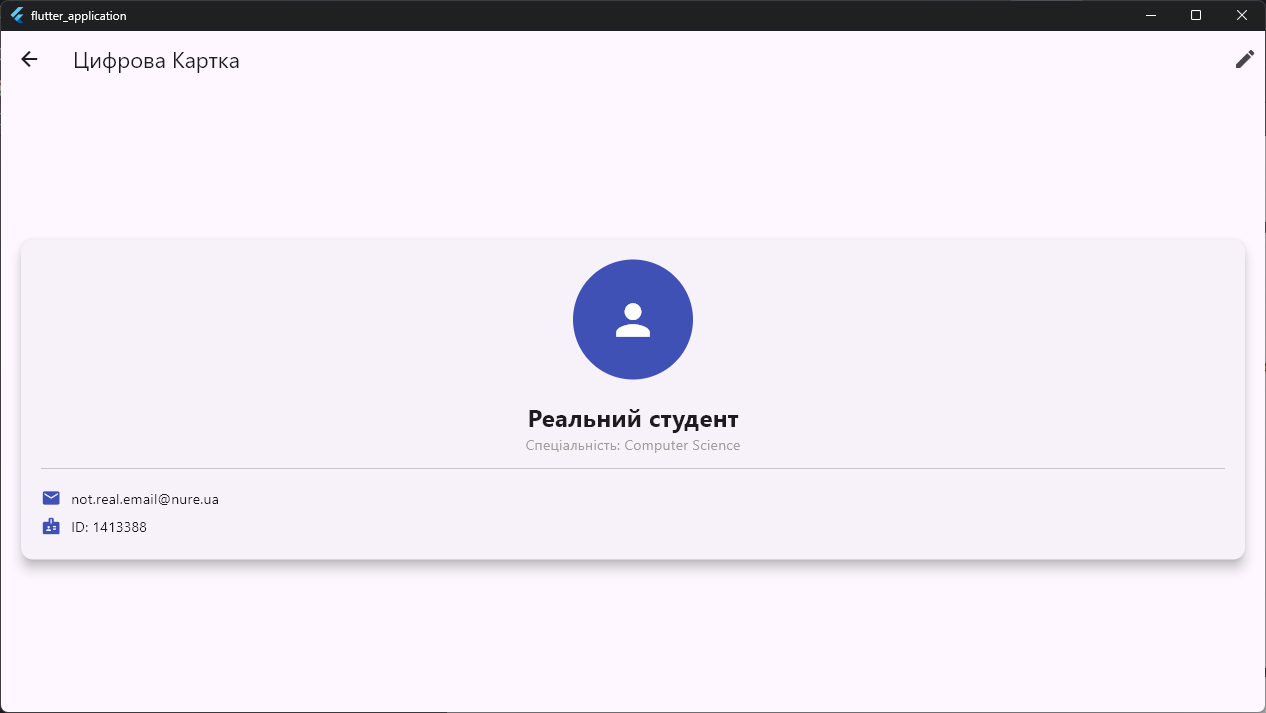
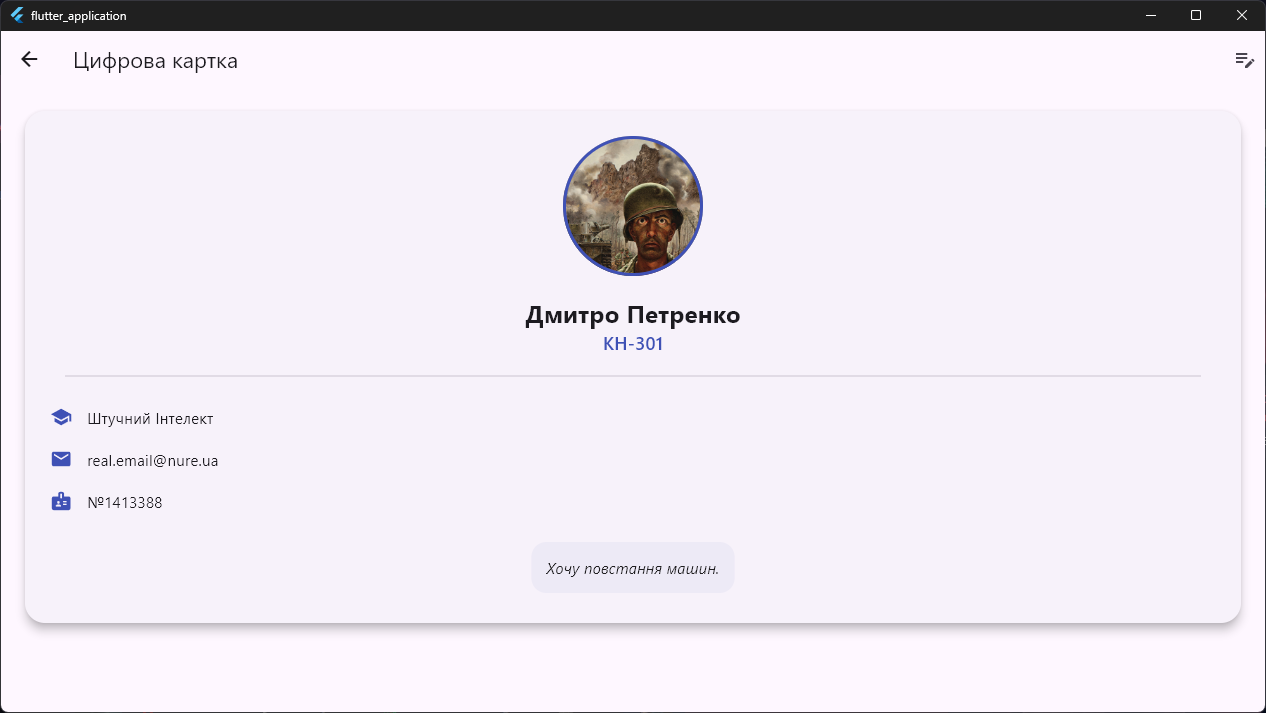
fixed profile not showing picture

diff --git a/lib/screens/profile.dart b/lib/screens/profile.dart
@@ -8,31 +8,59 @@ class ProfileScreen extends StatefulWidget {
 }
 
 class _ProfileScreenState extends State<ProfileScreen> {
-  String name = "Реальний студент";
-  String specialty = "Computer Science";
+  String name = "Дмитро Петренко";
+  String group = "КН-301";
+  String specialty = "Штучний Інтелект";
+  String email = "real.email@nure.ua";
+  String studentId = "№1413388";
+  String description = "Хочу повстання машин.";
 
   void _editProfile() {
     TextEditingController nameController = TextEditingController(text: name);
-    TextEditingController specController = TextEditingController(text: specialty);
+    TextEditingController groupController = TextEditingController(text: group);
+    TextEditingController descController = TextEditingController(text: description);
 
     showDialog(
       context: context,
       builder: (context) => AlertDialog(
         title: const Text("Редагувати профіль"),
-        content: Column(
-          mainAxisSize: MainAxisSize.min,
-          children: [
-            TextField(controller: nameController, decoration: const InputDecoration(labelText: "ПІБ")),
-            TextField(controller: specController, decoration: const InputDecoration(labelText: "Спеціальність")),
-          ],
+        content: SingleChildScrollView(
+          child: Column(
+            mainAxisSize: MainAxisSize.min,
+            children: [
+              TextField(
+                controller: nameController, 
+                decoration: const InputDecoration(labelText: "ПІБ")
+              ),
+              const SizedBox(height: 10),
+              TextField(
+                controller: groupController, 
+                decoration: const InputDecoration(labelText: "Група")
+              ),
+              const SizedBox(height: 10),
+              TextField(
+                controller: descController,
+                maxLines: 4,
+                decoration: const InputDecoration(
+                  labelText: "Про себе",
+                  alignLabelWithHint: true,
+                  border: OutlineInputBorder(),
+                ),
+              ),
+            ],
+          ),
         ),
         actions: [
-          TextButton(onPressed: () => Navigator.pop(context), child: const Text("Відміна")),
+          TextButton(
+            onPressed: () => Navigator.pop(context), 
+            child: const Text("Скасувати")
+          ),
           ElevatedButton(
             onPressed: () {
               setState(() {
                 name = nameController.text;
-                specialty = specController.text;
+                group = groupController.text;
+                description = descController.text;
               });
               Navigator.pop(context);
             },
@@ -47,26 +75,68 @@ class _ProfileScreenState extends State<ProfileScreen> {
   Widget build(BuildContext context) {
     return Scaffold(
       appBar: AppBar(
-        title: const Text('Цифрова Картка'),
-        actions: [IconButton(icon: const Icon(Icons.edit), onPressed: _editProfile)],
+        title: const Text('Цифрова картка'),
+        actions: [
+          IconButton(
+            icon: const Icon(Icons.edit_note), 
+            onPressed: _editProfile,
+            tooltip: "Редагувати дані",
+          ),
+        ],
       ),
-      body: Center(
-        child: Card(
-          elevation: 10,
-          margin: const EdgeInsets.all(20),
-          child: Padding(
-            padding: const EdgeInsets.all(20.0),
-            child: Column(
-              mainAxisSize: MainAxisSize.min,
-              children: [
-                const CircleAvatar(radius: 60, backgroundColor: Colors.indigo, child: Icon(Icons.person, size: 50, color: Colors.white)),
-                const SizedBox(height: 20),
-                Text(name, style: const TextStyle(fontSize: 24, fontWeight: FontWeight.bold)),
-                Text('Спеціальність: $specialty', style: const TextStyle(color: Colors.grey)),
-                const Divider(height: 30),
-                _buildInfoRow(Icons.email, 'not.real.email@nure.ua'),
-                _buildInfoRow(Icons.badge, 'ID: 1413388'),
-              ],
+      body: SingleChildScrollView(
+        child: Padding(
+          padding: const EdgeInsets.all(20.0),
+          child: Center(
+            child: Card(
+              elevation: 8,
+              shape: RoundedRectangleBorder(borderRadius: BorderRadius.circular(20)),
+              child: Column(
+                children: [
+                  const SizedBox(height: 25),
+                  Container(
+                    width: 140,
+                    height: 140,
+                    decoration: BoxDecoration(
+                      shape: BoxShape.circle,
+                      border: Border.all(color: Colors.indigo, width: 3),
+                      image: const DecorationImage(
+                        image: AssetImage('lib/assets/student_photo.png'),
+                        fit: BoxFit.cover,
+                      ),
+                    ),
+                  ),
+                  const SizedBox(height: 20),
+                  Text(name, style: const TextStyle(fontSize: 24, fontWeight: FontWeight.bold)),
+                  Text(group, style: const TextStyle(fontSize: 18, color: Colors.indigo, fontWeight: FontWeight.w500)),
+                  const Divider(indent: 40, endIndent: 40, height: 40),
+                  _buildProfileInfo(Icons.school, specialty),
+                  _buildProfileInfo(Icons.email, email),
+                  _buildProfileInfo(Icons.badge, studentId),
+                  const SizedBox(height: 20),
+                  Padding(
+                    padding: const EdgeInsets.symmetric(horizontal: 25),
+                    child: Container(
+                      padding: const EdgeInsets.all(15),
+                      decoration: BoxDecoration(
+                        color: Colors.indigo.withOpacity(0.05),
+                        borderRadius: BorderRadius.circular(15),
+                      ),
+                      child: Text(
+                        description,
+                        textAlign: TextAlign.center,
+                        style: const TextStyle(
+                          fontSize: 15,
+                          fontStyle: FontStyle.italic,
+                          color: Colors.black87,
+                          height: 1.4,
+                        ),
+                      ),
+                    ),
+                  ),
+                  const SizedBox(height: 30),
+                ],
+              ),
             ),
           ),
         ),
@@ -74,10 +144,16 @@ class _ProfileScreenState extends State<ProfileScreen> {
     );
   }
 
-  Widget _buildInfoRow(IconData icon, String text) {
+  Widget _buildProfileInfo(IconData icon, String info) {
     return Padding(
-      padding: const EdgeInsets.symmetric(vertical: 4),
-      child: Row(children: [Icon(icon, color: Colors.indigo, size: 20), const SizedBox(width: 10), Text(text)]),
+      padding: const EdgeInsets.symmetric(horizontal: 25, vertical: 10),
+      child: Row(
+        children: [
+          Icon(icon, color: Colors.indigo, size: 22),
+          const SizedBox(width: 15),
+          Expanded(child: Text(info, style: const TextStyle(fontSize: 15))),
+        ],
+      ),
     );
   }
 }
